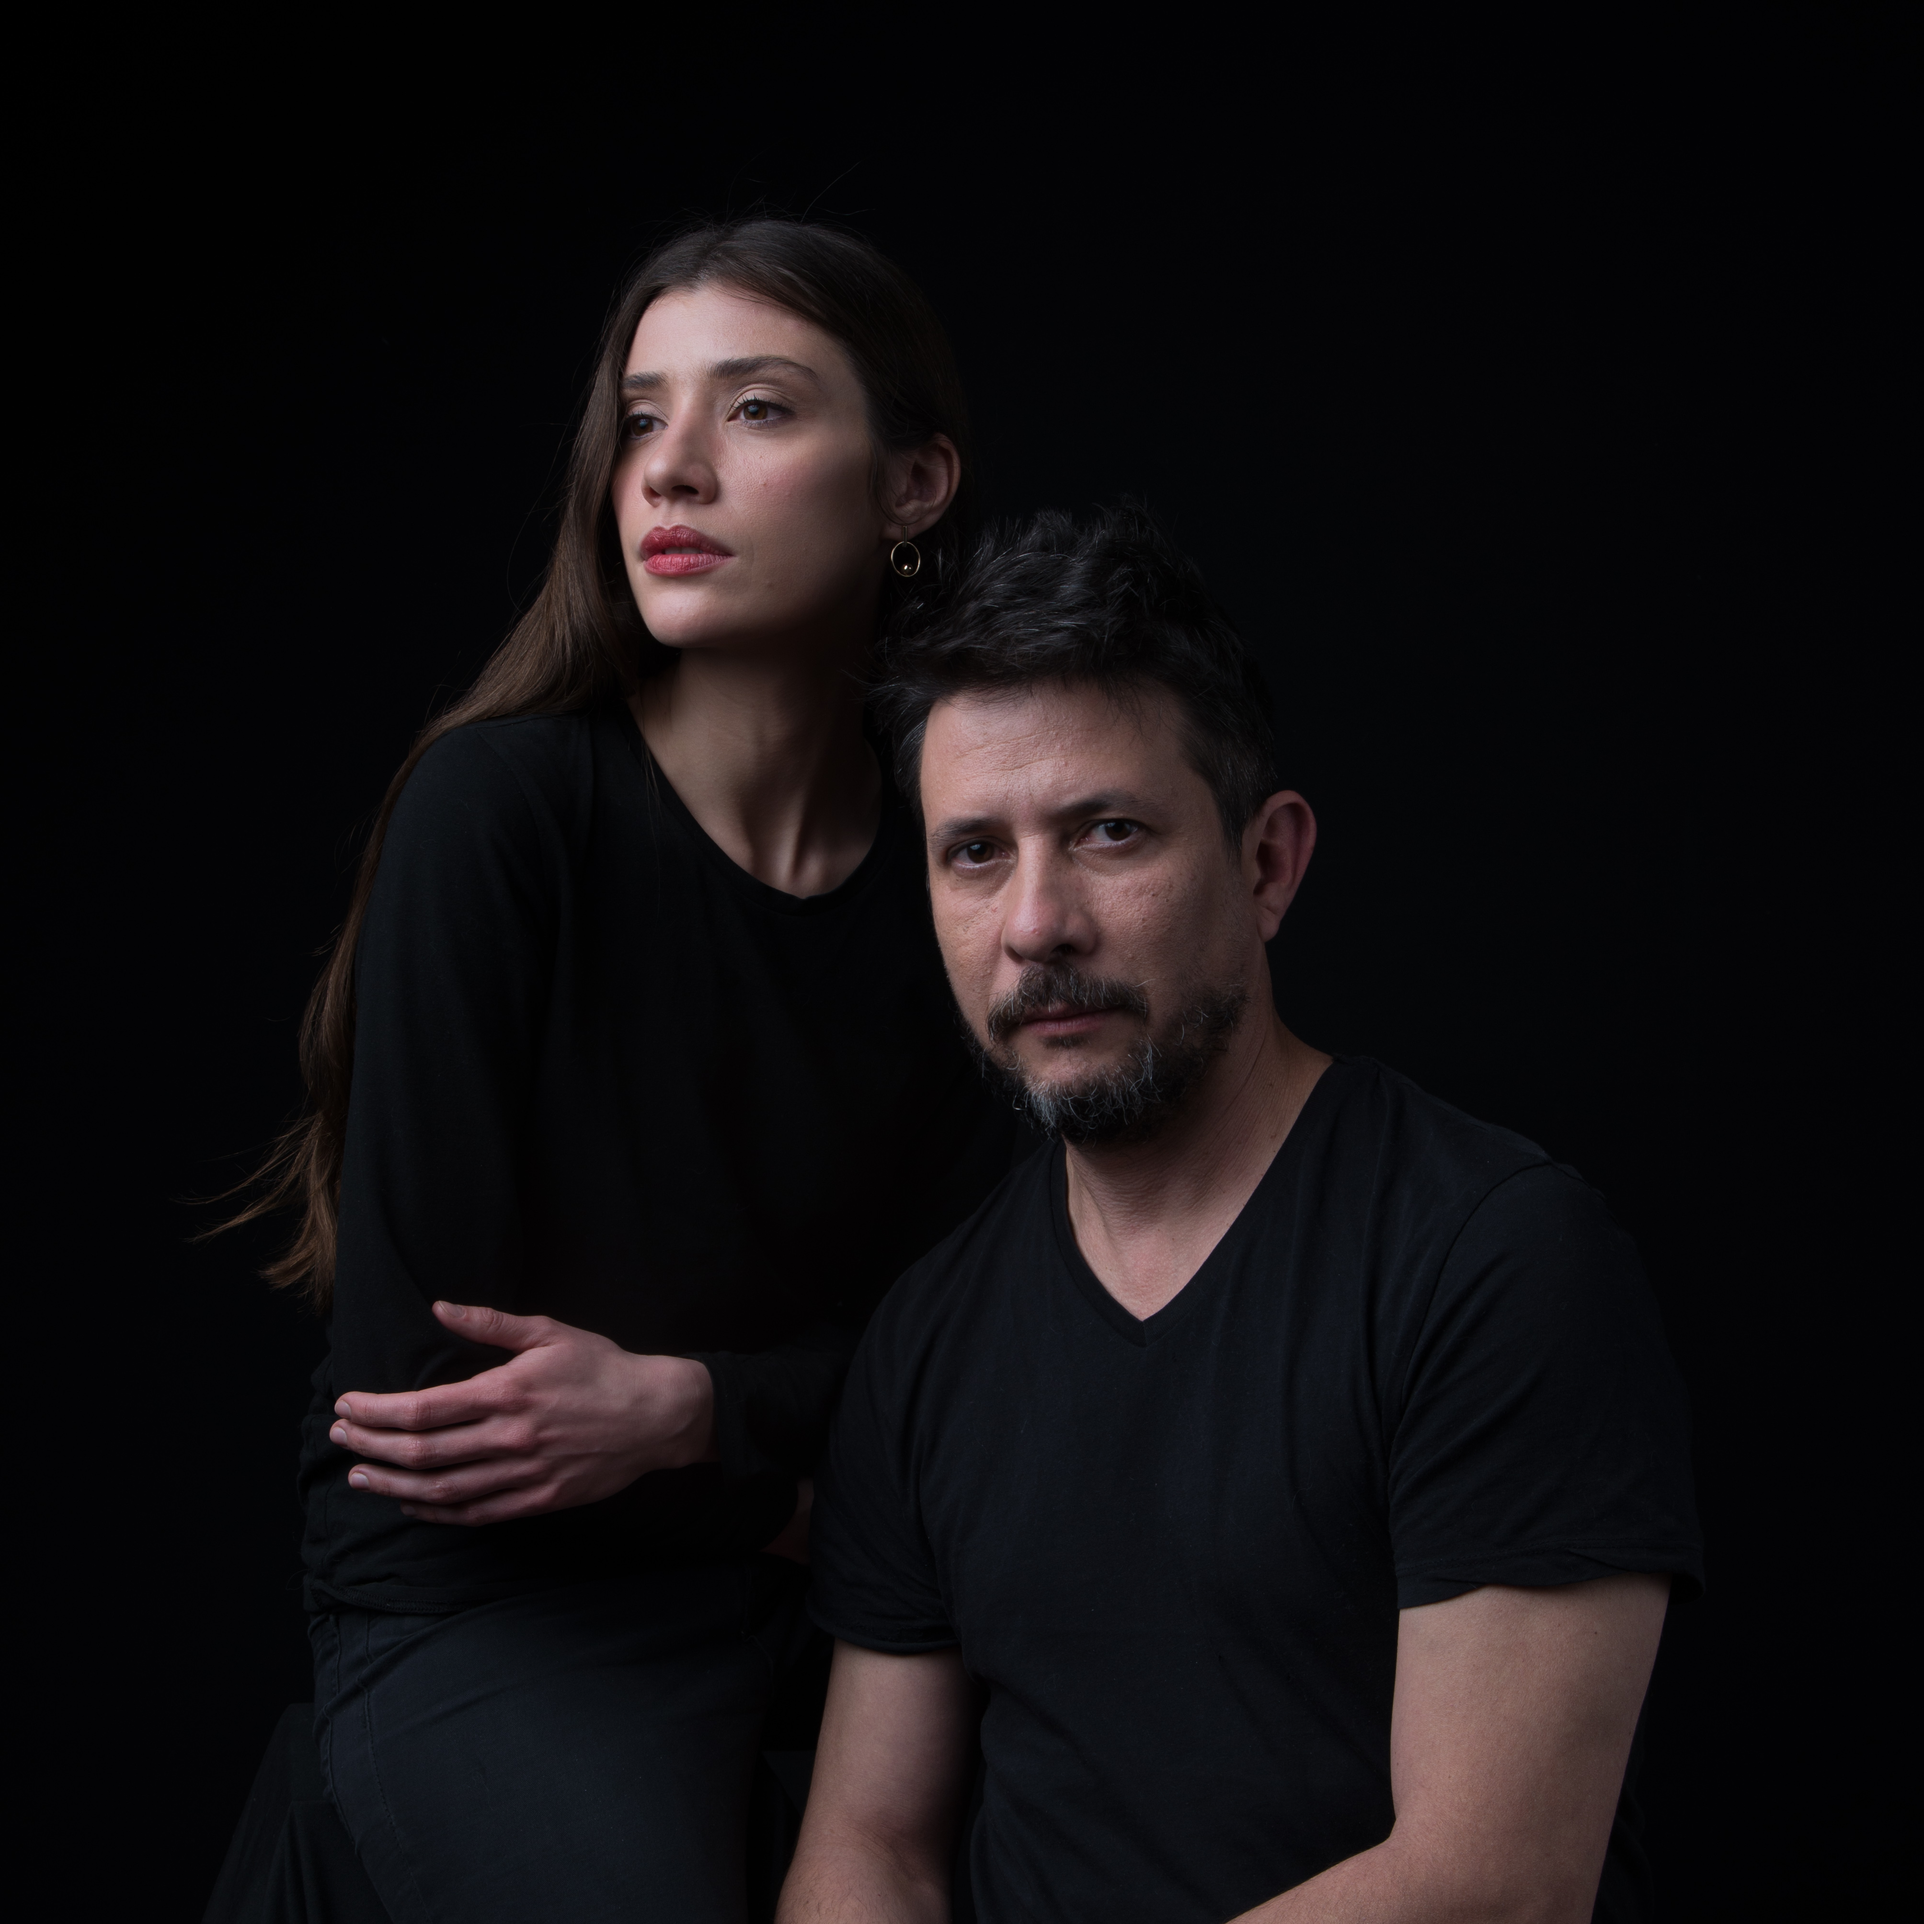
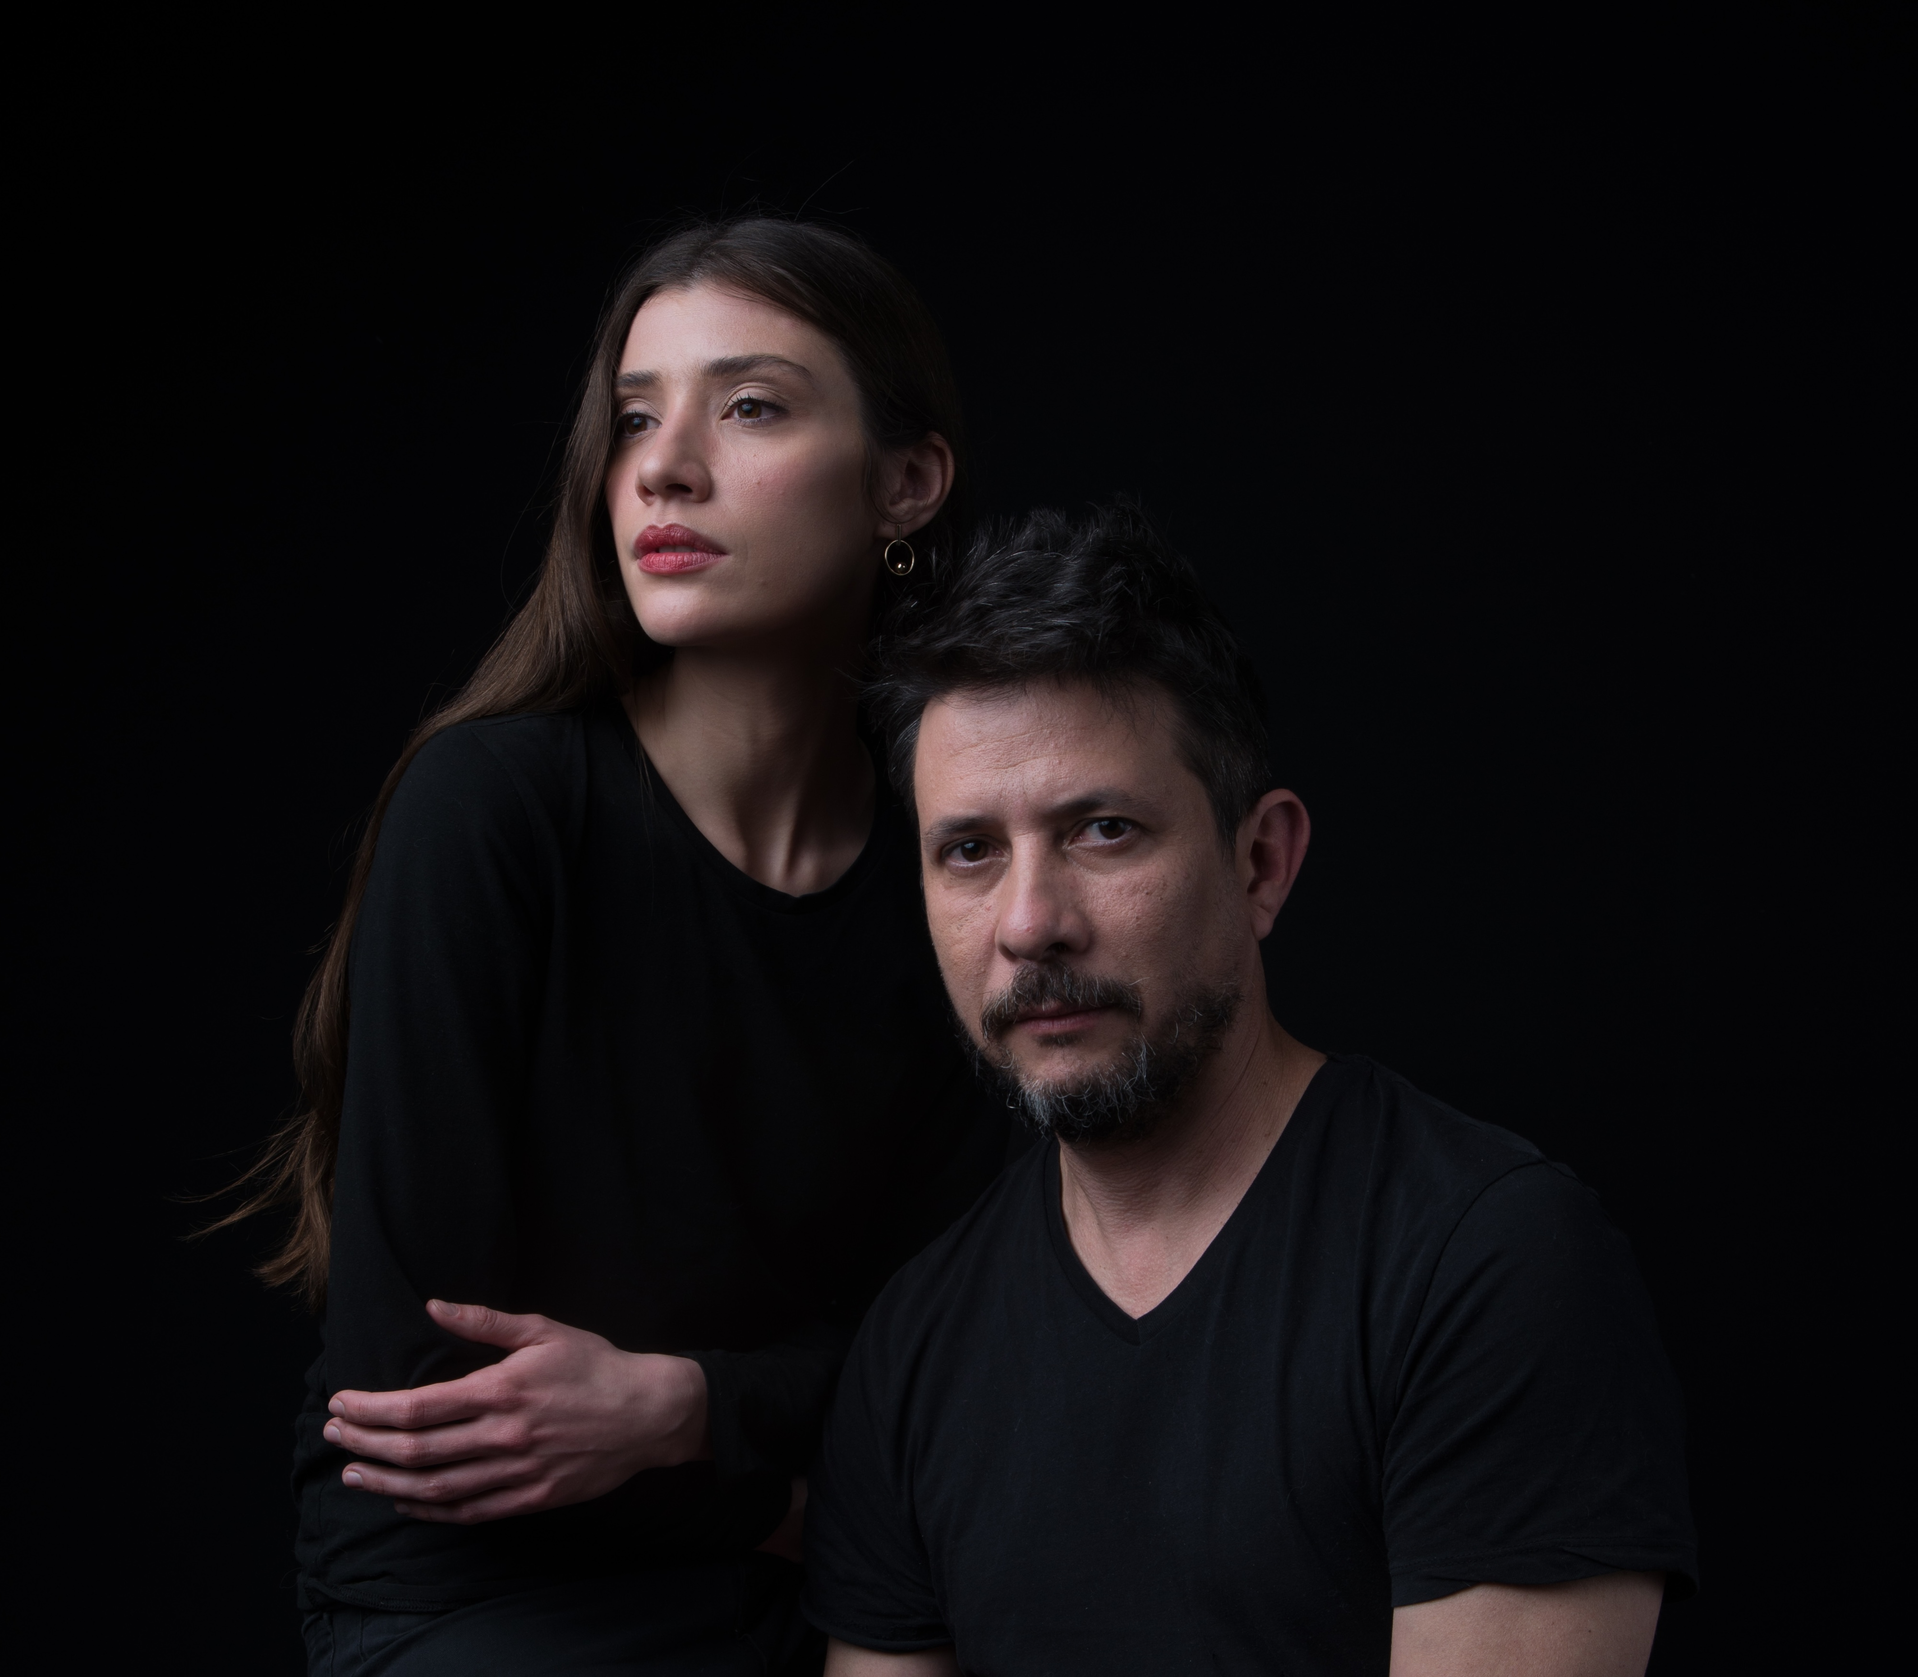
feat: fixes on images and styling picture and border bottom

diff --git a/styles.css b/styles.css
@@ -11,6 +11,7 @@
     --white: #ffffff;
     --gray: #666666;
     --dark-bg: #000000;
+    --gradient-bottom: linear-gradient(to right, var(--dark-red), rgba(239, 85, 77, 0.708), transparent);
 }
 
 body {
@@ -270,13 +271,20 @@ body {
     width: 250px;
     height: 250px;
     object-fit: cover;
-    border-radius: 8px;
     display: block;
+}
+
+.hero-divider {
+    width: 100%;
+    height: 40px;
+    background: var(--gradient-bottom);
+    margin: -1rem 0;
+    z-index: 10;
 }
 
 .hero-logo {
     position: absolute;
-    bottom: -50px;
+    bottom: -90px;
     left: -20px;
     width: 150px;
     height: auto;
@@ -287,17 +295,17 @@ body {
 /* Pantallas grandes: foto ocupa 50% del ancho */
 @media (min-width: 1000px) {
     .hero-photo {
-        width: 45vw;
+        width: 55vw;
         height: auto;
         max-width: 600px;
-        aspect-ratio: 1/1;
+        height: 55vh;
     }
     
     .hero-logo {
         width: 20vw;
         max-width: 360px;
-        bottom: -60px;
-        left: -40px;
+        bottom: -130px;
+        left: -70px;
     }
 }
 
@@ -306,13 +314,17 @@ body {
     .hero-photo {
         width: 390px;
         height: 390px;
-        object-fit: cover;
+        object-fit: cover
+    }
+
+    .hero-divider{
+        margin-bottom: 2rem;
     }
     
     .hero-logo {
-        width: 90px;
+        width: 250px;
         bottom: -45px;
-        left: -15px;
+        left: -35px;
     }
 }
 
@@ -324,9 +336,9 @@ body {
     }
     
     .hero-logo {
-        width: 80px;
-        bottom: -50px;
-        left: -10px;
+        width: 180px;
+        bottom: -70px;
+        left: -20px;
     }
 }
 

diff --git a/index.html b/index.html
@@ -230,7 +230,10 @@
                 </div>
                 <div class="hero-title">
                     <div class="hero-image">
-                        <img src="assets/photos/photo.jpg" alt="Cande y Paulo photo" loading="lazy" width="250" height="250" class="hero-photo">
+                        <div>
+                            <img src="assets/photos/photo.jpg" alt="Cande y Paulo photo" loading="lazy" width="250" height="250" class="hero-photo">
+                            <div class="hero-divider"></div>
+                        </div>
                         <img src="assets/icons/favicon.png" alt="Cande y Paulo logo" loading="lazy" width="150" height="150" class="hero-logo">
                     </div>
                 </div>
